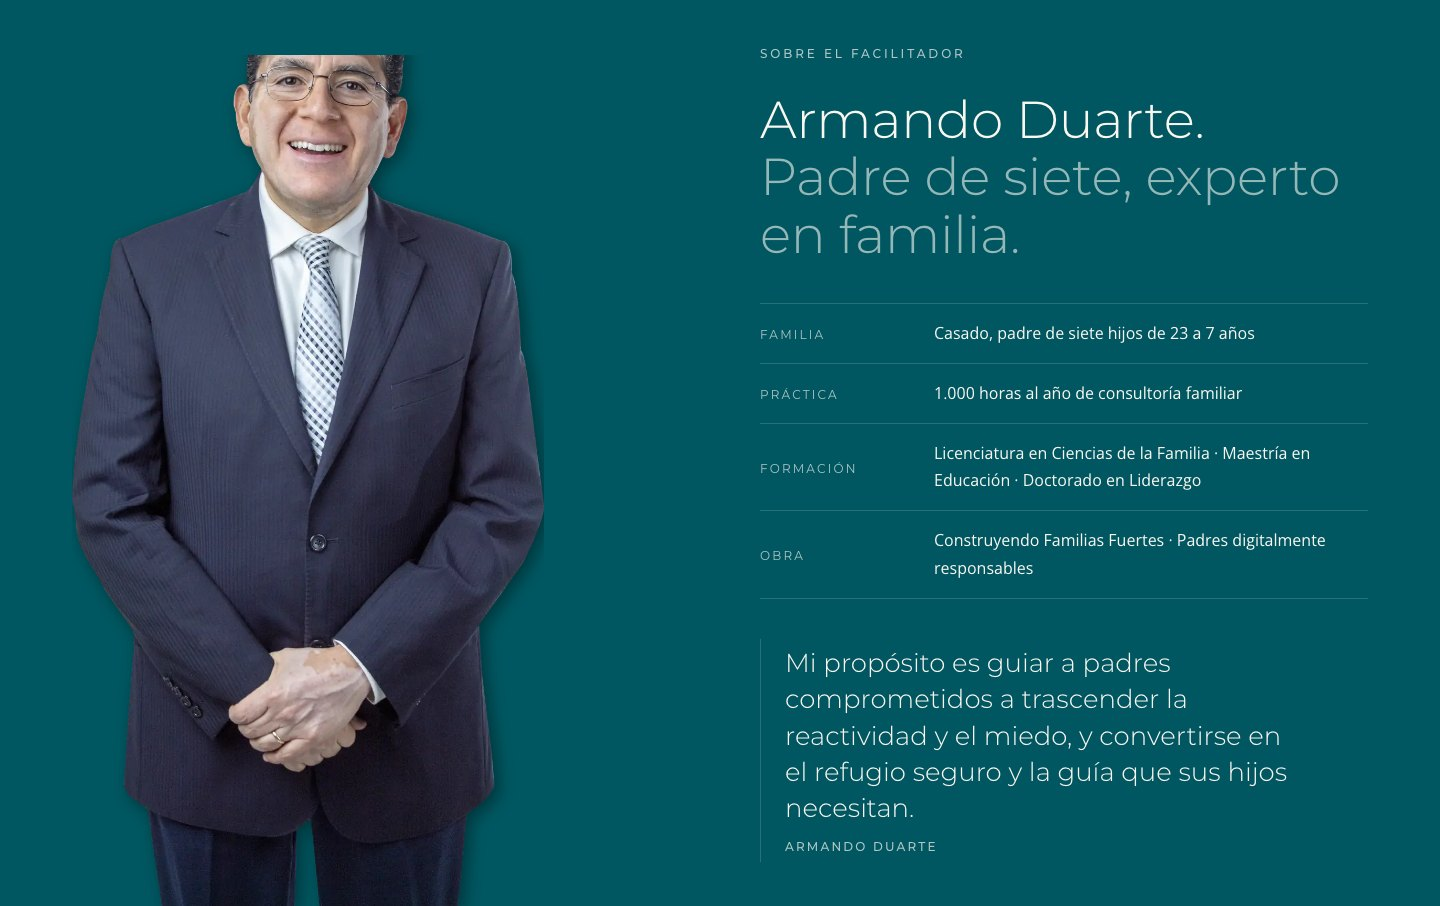
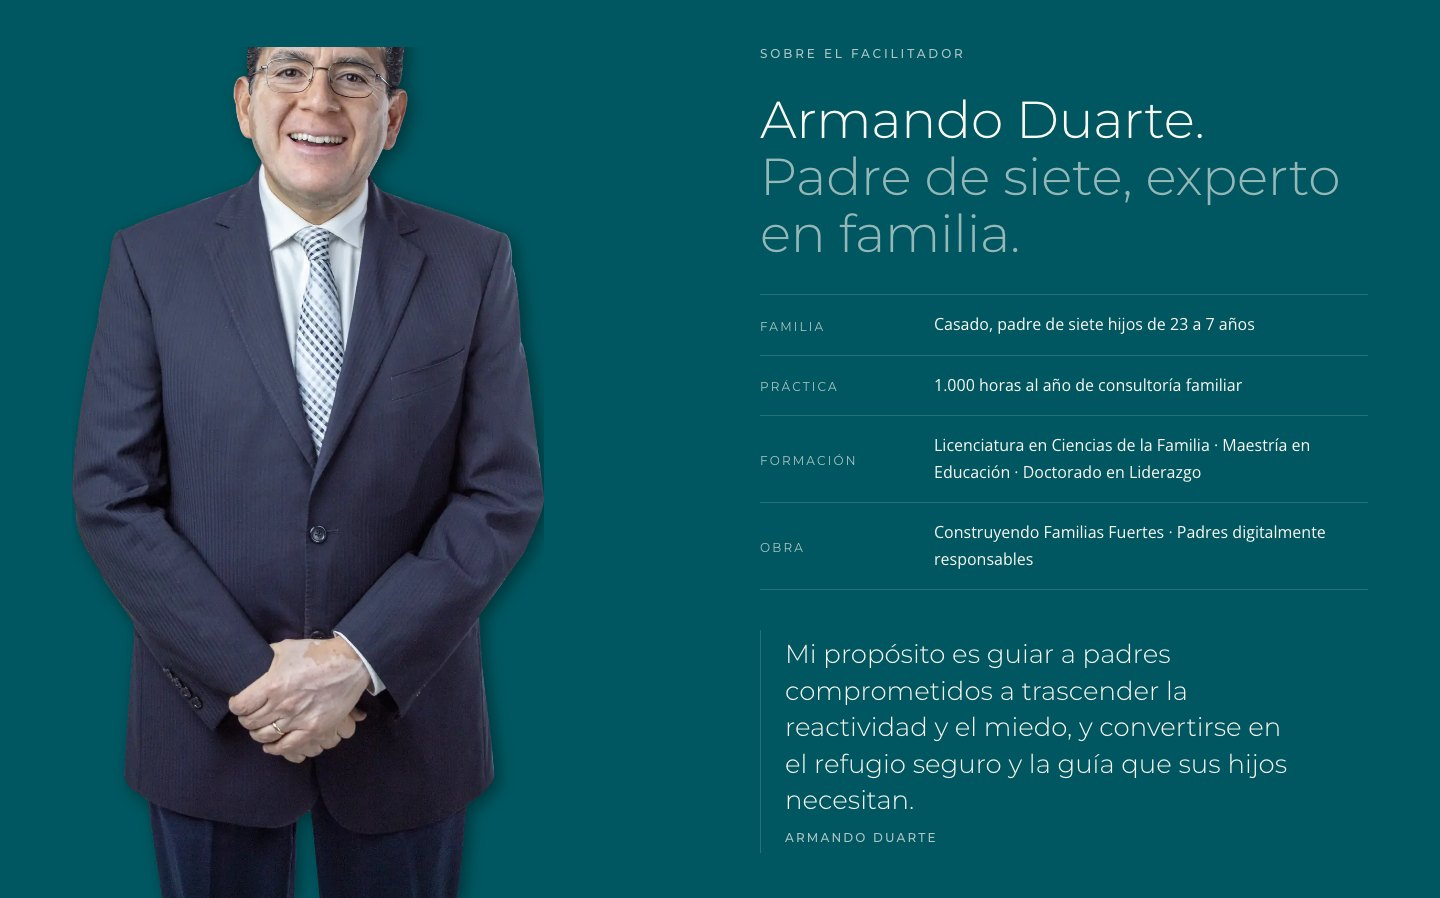
feat(web): #20-bis cerrado — #llevas en 5:4, ficha 32, #quien única excepción
Decisiones del CEO sobre el PR #31:
- #llevas: fotos en 5:4 con aspect-ratio + cover, sin tocar archivos. La
  de claridad sube al borde de arriba (encuadre--arriba) para no cortarle
  la cabeza al padre. 1023 → 841.
- #facilitador: margin-top de la ficha 40 → 32. 906 → 898.
- #quien: se acepta el desborde (+134) como única excepción del sitio,
  «texto del cliente». Armando vuelve a 520: 470 no compraba nada.
- check:altura con una sola fila excusada; visto fallar con la ficha en 40.
- Fidelidad: portada igual al #30; taller 1440/900/390 regeneradas.

diff --git a/apps/web/src/index.css b/apps/web/src/index.css
@@ -408,8 +408,13 @@ a,button{-webkit-tap-highlight-color:transparent}
    que es `.ficha`. El primer intento de esta orden hizo eso y el guardián de
    fidelidad lo cazó con la portada 56 px más alta. Un `id` gana siempre, que es
    lo que el `style=` inline hacía y lo que hay que conservar. */
-#quien .foto--libre{max-width:470px}
+#quien .foto--libre{max-width:520px}
 #facilitador .foto--libre{max-width:472px}
+/* ── Los 6 px que le faltaban a `#facilitador` (#20-bis, decisión del CEO) ──
+   Manda la columna de texto, no la foto: la ficha arriba a 32 en vez de 40 y la
+   sección pasa de 906 a 898 a 1440×900. Colgado del `id` por lo mismo de arriba:
+   `.ficha` y cualquier utilidad empatan en especificidad. */
+#facilitador .ficha{margin-top:32px}
 /* ── Armando apoyado en la orilla (orden #12, E) ──────────────────────────
    Lucía vio aire entre el borde de abajo del PNG y el del bloque teal. La
    figura deja de estar centrada y se pega al fondo de la fila, y el aire que
@@ -798,6 +803,12 @@ a,button{-webkit-tap-highlight-color:transparent}
 .foto-tarjeta img{width:100%;height:auto;aspect-ratio:4/5;object-fit:cover}
 .tres figure{border-radius:12px;overflow:hidden;background:var(--calido);margin-bottom:var(--s3)}
 .tres figure img{width:100%;height:auto;aspect-ratio:4/5;object-fit:cover}
+/* ── «Lo que te llevas» en 5:4 (#20-bis, decisión del CEO) ─────────────────
+   Sola, la sección medía 1023 contra 900: la mandaba la foto 4:5 de cada columna
+   (405×507). En 5:4 queda en 841. Los archivos no se tocan: el recorte es
+   `aspect-ratio` + `cover`, y con las caras enteras en las tres. */
+#llevas .tres figure img{aspect-ratio:5/4}
+#llevas .tres figure img.encuadre--arriba{object-position:center top}
 
 /* ── Responsive ─────────────────────────────────────────────────────── */
 /* Cinco núcleos no entran en dos columnas sin dejar una fila de uno: entre

diff --git a/apps/web/src/web/taller/Llevas.tsx b/apps/web/src/web/taller/Llevas.tsx
@@ -14,10 +14,13 @@ import { Seccion } from '../comun/Seccion';
  */
 export function Llevas() {
   const { t } = useTranslation();
+  /* El cuarto valor es el encuadre del recorte 5:4 (#20-bis). Sin clase, el
+     centro; `claridad` sube al borde de arriba porque centrada le cortaba la
+     cabeza al padre. Se decide mirando cada foto, no por regla. */
   const llevas = [
-    ['01', 'uno', 'llevas-claridad'],
-    ['02', 'dos', 'llevas-palabras'],
-    ['03', 'tres', 'llevas-serenidad'],
+    ['01', 'uno', 'llevas-claridad', 'encuadre--arriba'],
+    ['02', 'dos', 'llevas-palabras', undefined],
+    ['03', 'tres', 'llevas-serenidad', undefined],
   ] as const;
 
   return (
@@ -25,7 +28,7 @@ export function Llevas() {
       <span className="eyebrow reveal">{t('taller.llevas.eyebrow')}</span>
       <h2 className="display-m u-mt-4 reveal" data-d="1">{t('taller.llevas.titulo')}</h2>
       <div className="tres reveal" data-d="2">
-        {llevas.map(([n, clave, foto]) => (
+        {llevas.map(([n, clave, foto, encuadre]) => (
           <div key={n}>
             <figure>
               <Foto
@@ -34,6 +37,7 @@ export function Llevas() {
                 ancho={800}
                 alto={1000}
                 tamanos="(max-width:900px) 92vw, 30vw"
+                clase={encuadre}
               />
             </figure>
             <span className="n">{n}</span>

diff --git a/apps/web/src/web/comun/Retrato.tsx b/apps/web/src/web/comun/Retrato.tsx
@@ -24,8 +24,8 @@
  *
  * ── Los tamaños, y por qué no son los que la orden pedía ─────────────────
  * La orden pedía 900 y 1800 de ancho. Medido, **ningún hueco de esta web pasa
- * de 520 px**: el arco del hero (520), la foto de «Quién soy» (470 desde la
- * #20-bis) y la de «Sobre el facilitador» (472). A 2× eso es 1040, y 1400 ya deja margen de sobra. Los
+ * de 520 px**: el arco del hero (520), la foto de «Quién soy» (520) y la de «Sobre
+ * el facilitador» (472, desde la #20-bis). A 2× eso es 1040, y 1400 ya deja margen de sobra. Los
  * 1800 solo servían para pasarse del presupuesto: el recorte de cuerpo entero a
  * 1800 pesaba 486 KB y bajarlo a los 220 KB que la orden fija exigía calidad 45,
  * o sea publicar al cliente borroso en su propia portada. A 1400 el mismo

diff --git a/apps/web/src/web/inicio/Quien.tsx b/apps/web/src/web/inicio/Quien.tsx
@@ -22,7 +22,7 @@ export function Quien() {
     <Seccion id="quien" contenedor={false}>
       <div className="container grid-2 centro">
         <figure className="foto foto--libre reveal">
-          <Retrato cual="de-pie" alt={t('inicio.quien.fotoAlt')} tamanos="(max-width:900px) 92vw, 470px" />
+          <Retrato cual="de-pie" alt={t('inicio.quien.fotoAlt')} tamanos="(max-width:900px) 92vw, 520px" />
         </figure>
         <div>
           <span className="eyebrow reveal">{t('inicio.quien.eyebrow')}</span>

diff --git a/docs/informes/20/LEEME.md b/docs/informes/20/LEEME.md
@@ -419,3 +419,28 @@ propia caja: si sobra, la imagen mide más de 900.
 | `bis-programa-1440x900.jpg` | 844 |
 | `bis-llevas-1440x900.jpg` | 1023 |
 | `bis-facilitador-1440x900.jpg` | 906 |
+
+## #20-bis · Las decisiones del CEO, aplicadas
+
+1. **`#llevas`: fotos en 5:4** con `aspect-ratio` y `object-fit: cover`, sin
+   tocar los archivos. Mirada foto por foto: `llevas-palabras` y
+   `llevas-serenidad` conservan las caras enteras con el recorte centrado;
+   `llevas-claridad`, centrada, le cortaba la cabeza al padre, y lleva
+   `object-position: center top` (clase `encuadre--arriba`, declarada en
+   `Llevas.tsx`). Se ve en `bis-llevas-1440x900.jpg`.
+2. **`#facilitador`: ficha 40 → 32.**
+3. **`#quien`: se acepta el desborde**, la única excepción del sitio, con el
+   motivo «texto del cliente». **Armando vuelve a 520.**
+
+| sección (1440×900) | alto | |
+|---|---|---|
+| `/merida` `#programa` | 844 | entra |
+| `/merida` `#llevas` | **841** | entra |
+| `/merida` `#facilitador` | **898** | entra |
+| `/` `#quien` | 1034 · +134 | la única fila en `PENDIENTES` |
+
+`check:altura`: verde, **una** sección excusada (`inicio#quien`). La vi fallar
+volviendo la ficha de `#facilitador` a 40: rojo en `#facilitador mide 906px`.
+Gate de la casa verde. Fidelidad: las capturas de la portada vuelven a ser
+**exactamente** las del #30 (la foto está otra vez en 520); cambian las del
+taller a 1440, 900 y 390, por la sección nueva, el 3 + 2 y el 5:4.
